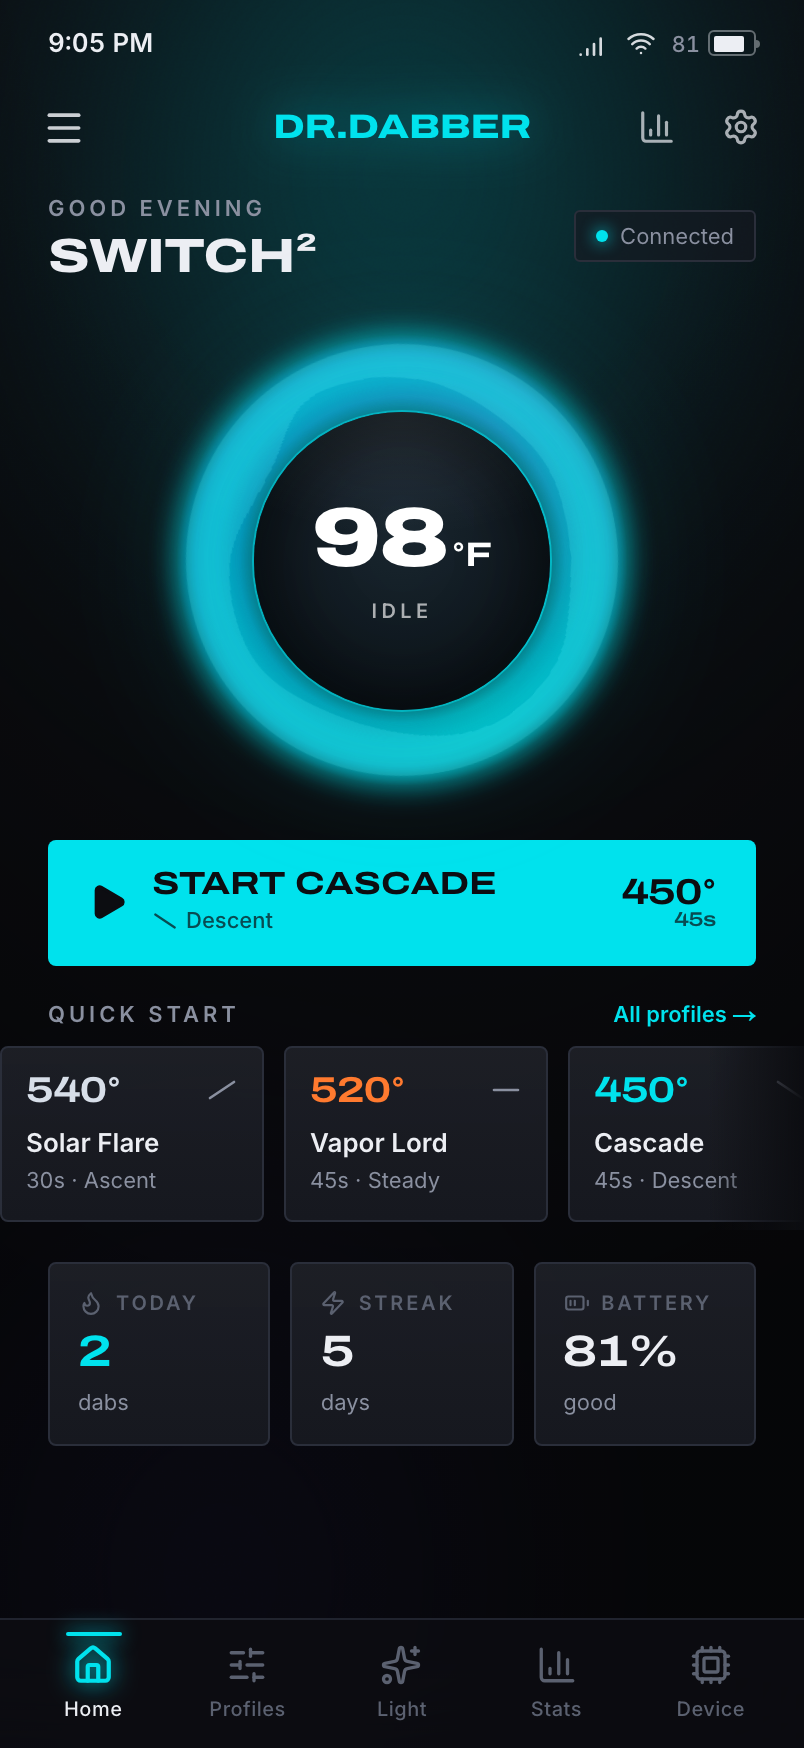
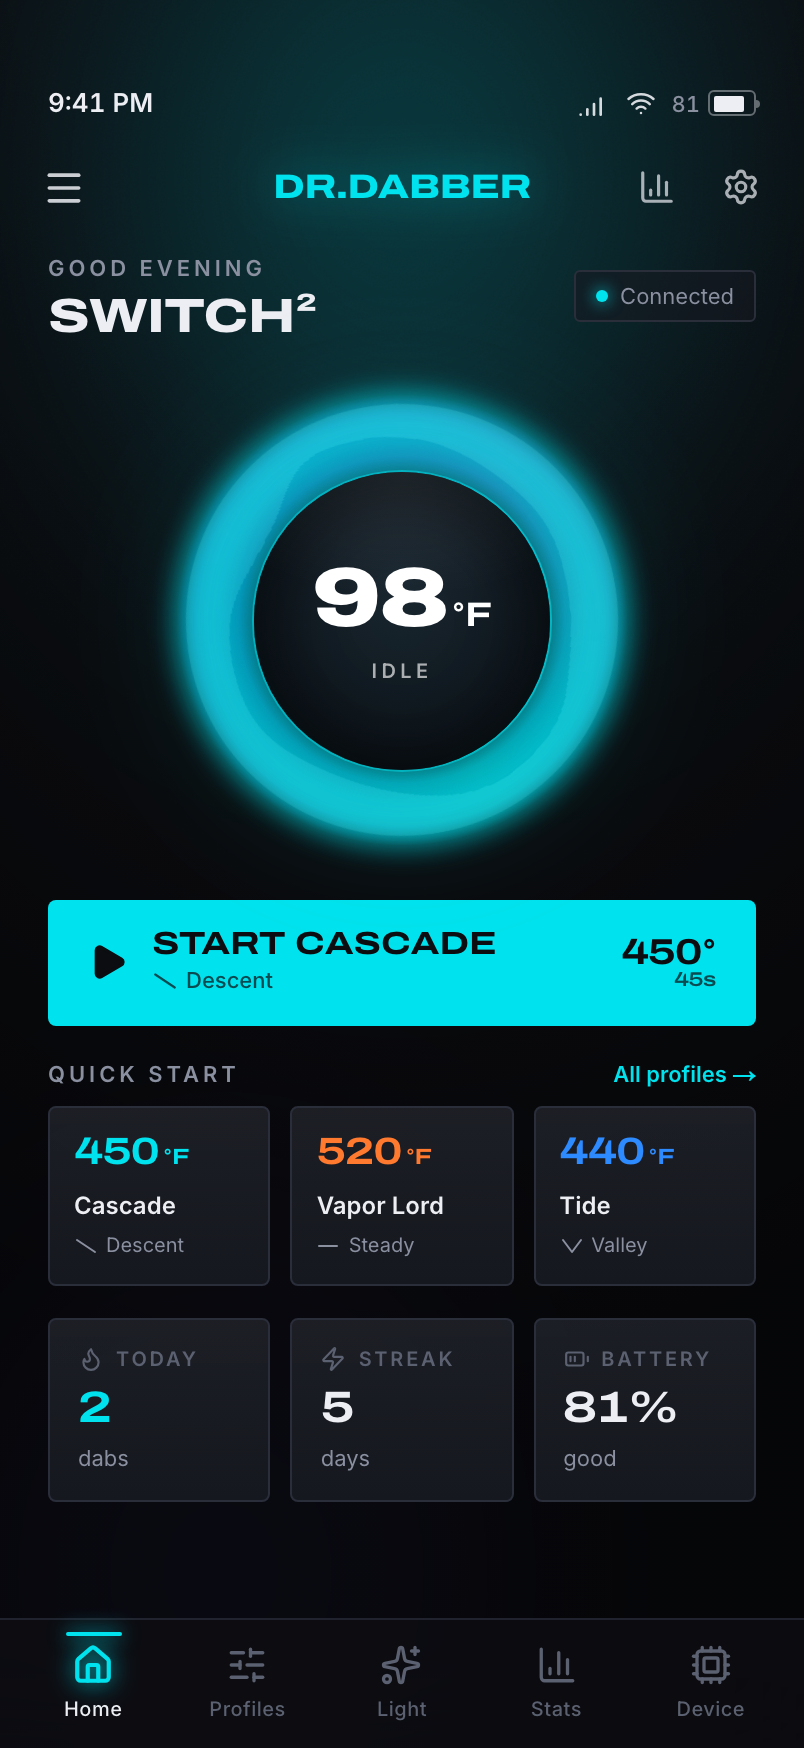
Proportional phone frames + re-shot screenshots (new quick-start, notch-safe status bar)
PhoneMock frame now scales with container-query units so corner radius/bezel/island look right at every phone size; re-captured all 7 app screens with the 3-up quick-start and a notch-clear status bar.

Changed region(s): [[0.0, 0.0, 0.9639, 0.865], [0.7152, 0.0, 0.9328, 0.1854], [0.8396, 0.0, 0.9328, 0.1236]]

diff --git a/src/styles/case-study.css b/src/styles/case-study.css
@@ -466,6 +466,7 @@
 
 /* ----- Coded phone frame ----- */
 .phone {
+  container-type: inline-size; /* frame scales proportionally to phone width */
   margin: 0;
   display: flex;
   flex-direction: column;
@@ -476,31 +477,31 @@
   position: relative;
   width: 100%;
   aspect-ratio: 1179 / 2556;
-  padding: 10px;
-  border-radius: 44px;
+  padding: 3.1cqw;
+  border-radius: 13.5cqw;
   background: linear-gradient(155deg, #16181f 0%, #0a0b0e 45%, #04050a 100%);
   box-shadow:
     inset 0 0 0 1.5px #2a2e3a,
     inset 0 1px 1px rgba(255, 255, 255, 0.1),
-    0 2px 2px rgba(0, 0, 0, 0.5),
-    0 30px 60px -20px rgba(0, 0, 0, 0.7),
-    0 50px 120px -40px rgba(0, 0, 0, 0.6);
+    0 0.4cqw 0.6cqw rgba(0, 0, 0, 0.5),
+    0 4cqw 8cqw -2cqw rgba(0, 0, 0, 0.7),
+    0 8cqw 16cqw -5cqw rgba(0, 0, 0, 0.55);
 }
 .phone-frame::before,
 .phone-frame::after {
   content: '';
   position: absolute;
-  width: 3px;
+  width: 0.9cqw;
   border-radius: 2px;
   background: linear-gradient(180deg, #23262f, #0d0f13);
 }
-.phone-frame::before { right: -3px; top: 26%; height: 9%; }
-.phone-frame::after { left: -3px; top: 22%; height: 16%; }
+.phone-frame::before { right: -0.8cqw; top: 26%; height: 9%; }
+.phone-frame::after { left: -0.8cqw; top: 22%; height: 16%; }
 .phone-screen {
   position: relative;
   width: 100%;
   height: 100%;
-  border-radius: 34px;
+  border-radius: 10.4cqw;
   overflow: hidden;
   background: #050507;
 }
@@ -515,20 +516,19 @@
 .phone-island {
   position: absolute;
   z-index: 3;
-  top: 19px;
+  top: 4cqw;
   left: 50%;
   transform: translateX(-50%);
-  width: 30%;
-  height: 3.4%;
-  min-height: 18px;
+  width: 26cqw;
+  height: 7.5cqw;
   background: #000;
   border-radius: 999px;
 }
 .phone-glare {
   position: absolute;
-  inset: 10px;
+  inset: 3.1cqw;
   z-index: 2;
-  border-radius: 34px;
+  border-radius: 10.4cqw;
   pointer-events: none;
   background: linear-gradient(
     125deg,
